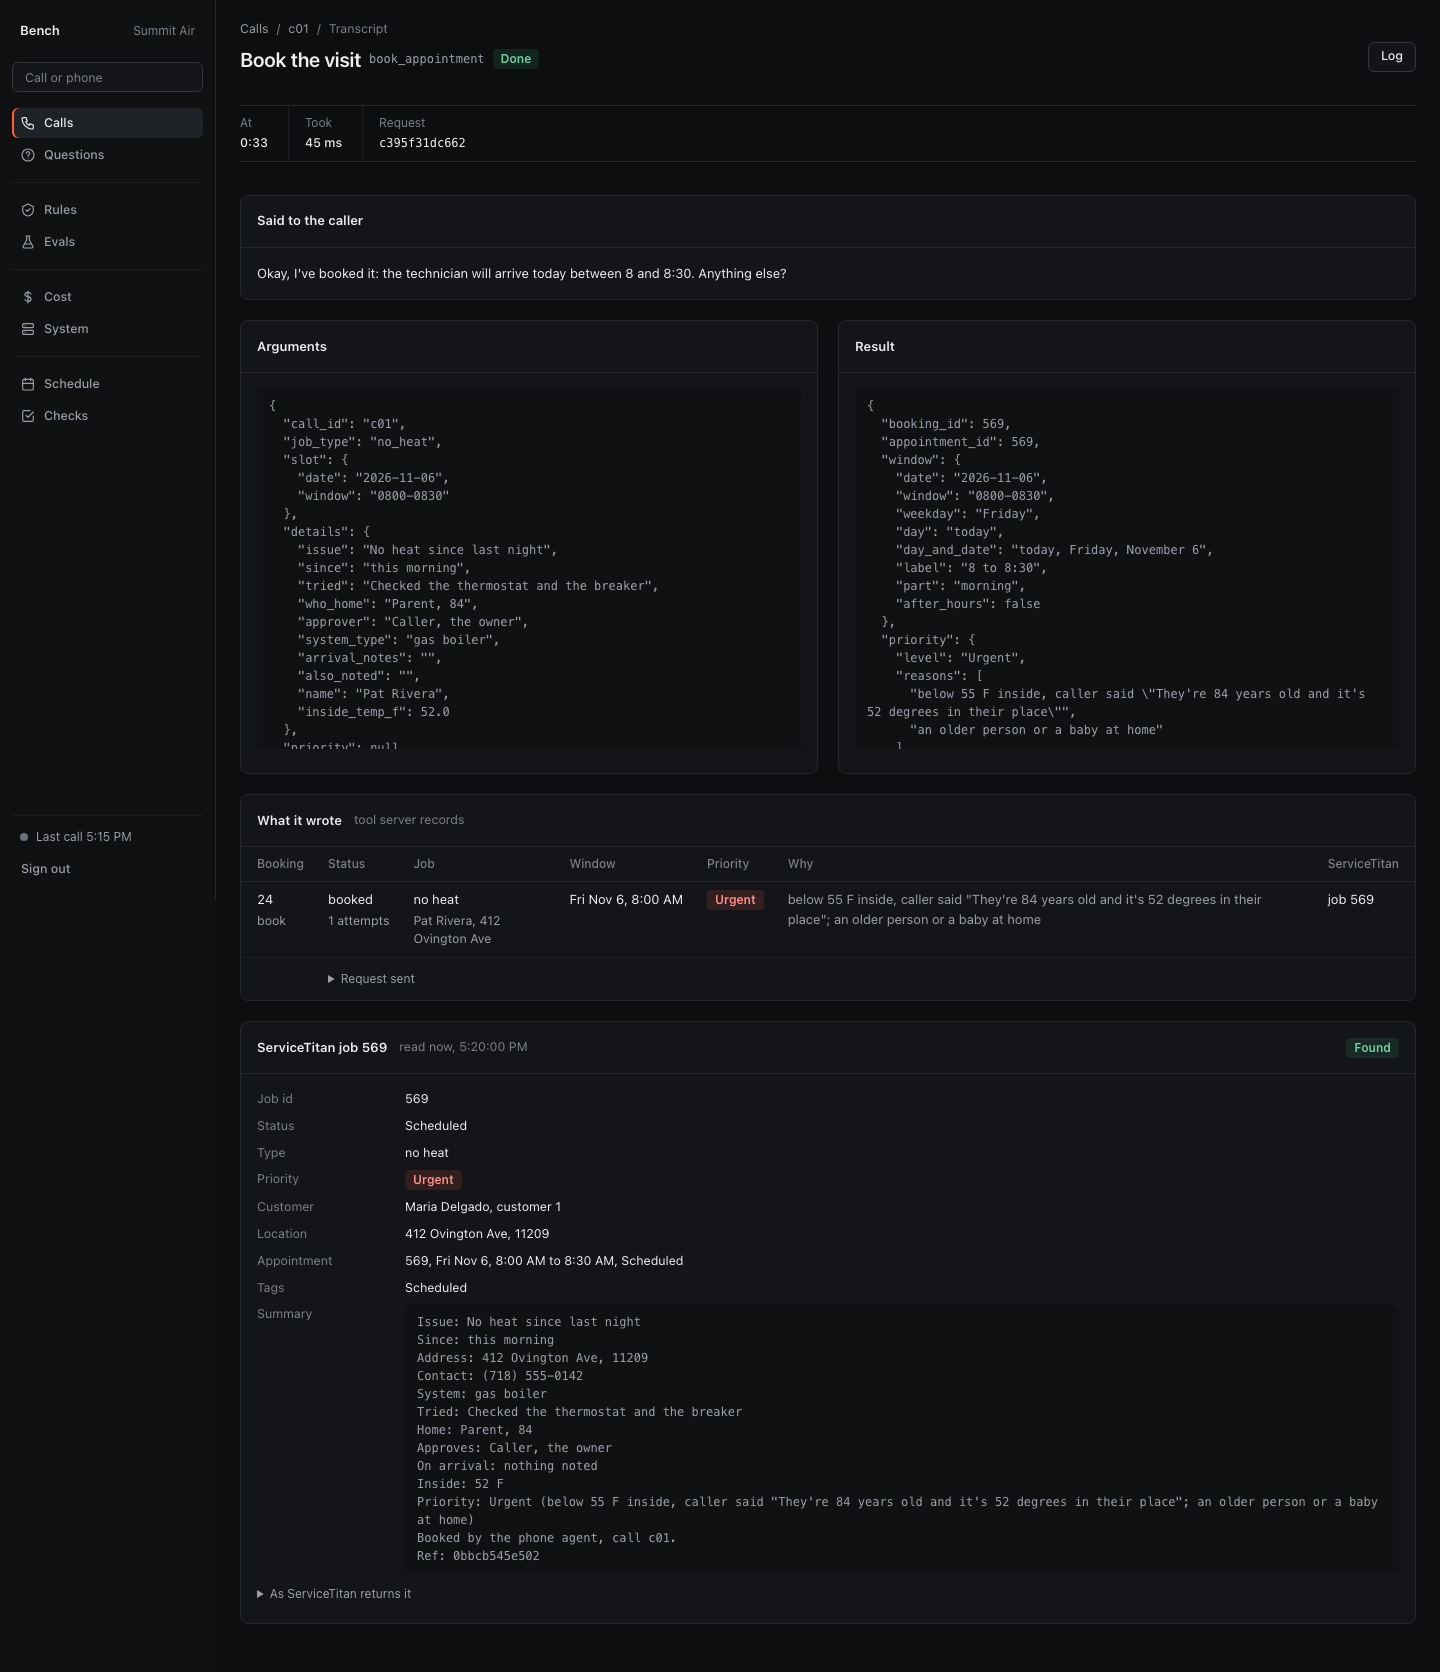
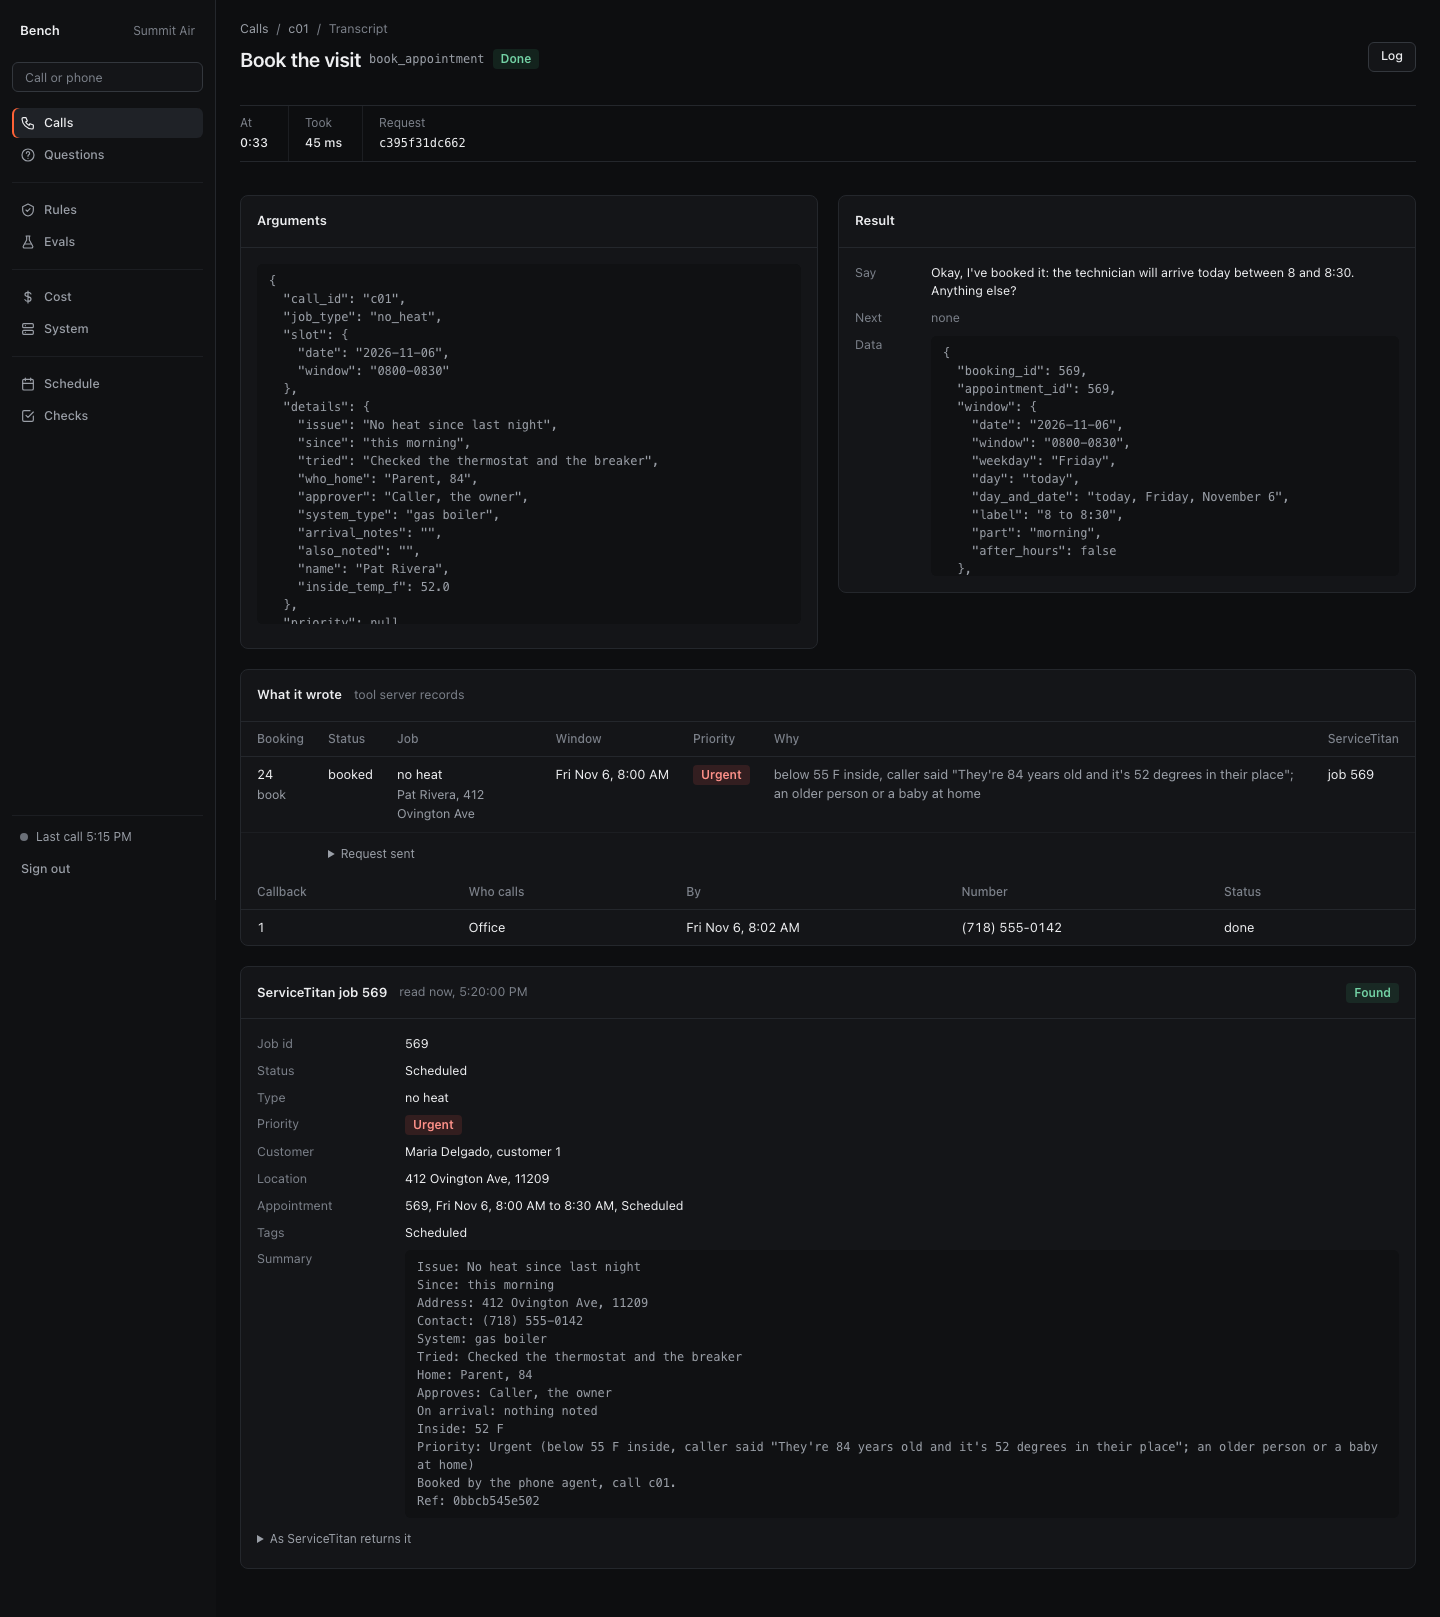
Bench: a tool call opens to say, next, data and its refusal; read-back bookings link to their rows (#191)
- Opening a tool call in the transcript reads its result (say, next, data, refusal, gate)
  on demand; the log now keeps the next step the server named.
- A booking tool's page also lists the callbacks made in the same request.
- Test: a booking made from the read-back links to its bookings and dispatch rows.

diff --git a/app/templates/_bench_heard.html b/app/templates/_bench_heard.html
@@ -30,8 +30,11 @@
         <td colspan="3"><details class="tool-call">
           <summary><span class="mono what">{{ x.tool }}</span>{% if x.error %}<span class="tag urgent">Error</span>{% elif not x.ok %}<span class="tag high">Refused</span>{% elif x.gate %}<span class="tag outline">{{ x.gate | replace("_", " ") }}</span>{% endif %}<span class="say">{{ mask(x.say) }}</span><span class="num faint">{{ "{:,.0f}".format(x.ms) }} ms</span></summary>
           <div class="tool-body">
-            <pre class="tech-block scroll">{{ x.args }}</pre>
-            <div class="actions">{% if x.refused %}<span class="small muted">Refused: {{ x.refused | replace("_", " ") }}</span>{% endif %}<a class="btn" href="/bench/calls/{{ key }}/tools/{{ x.id }}">{{ "Result and records" if x.writes else "Result" }}</a></div>
+            <div class="tool-cols">
+              <div><span class="label">Arguments</span><pre class="tech-block scroll">{{ x.args }}</pre></div>
+              <div data-result="/bench/calls/{{ key }}/tools/{{ x.id }}/result"><span class="label">Result</span><span class="skel" style="width: 70%"></span><span class="skel" style="width: 45%"></span></div>
+            </div>
+            <div class="actions"><a class="btn" href="/bench/calls/{{ key }}/tools/{{ x.id }}">{{ "Records it wrote" if x.writes else "Open" }}</a></div>
           </div>
         </details></td>
       </tr>

diff --git a/app/templates/bench_tool.html b/app/templates/bench_tool.html
@@ -25,21 +25,14 @@
     <div><dt>Request</dt><dd><code>{{ t.request_id }}</code></dd></div>
   </dl>
 
-  {% if t.say %}
-  <section class="panel">
-    <div class="panel-head"><h2>Said to the caller</h2></div>
-    <div class="panel-body">{{ mask(t.say) }}</div>
-  </section>
-  {% endif %}
-
   <div class="kv-grid">
     <section class="panel">
       <div class="panel-head"><h2>Arguments</h2></div>
       <div class="panel-body"><pre class="tech-block scroll">{{ args }}</pre></div>
     </section>
-    <section class="panel">
+    <section class="panel" id="result">
       <div class="panel-head"><h2>Result</h2></div>
-      <div class="panel-body">{% if result %}<pre class="tech-block scroll">{{ result }}</pre>{% else %}<span class="faint">Not in this server's log.</span>{% endif %}</div>
+      <div class="panel-body">{% include "_bench_result.html" %}</div>
     </section>
   </div>
 

diff --git a/app/static/bench/bench.js b/app/static/bench/bench.js
@@ -89,3 +89,16 @@ document.querySelectorAll("[data-chart]").forEach((chart) => {
   });
   show();
 });
+
+// Transcript: a tool call's result is read when the call is first opened, not with the page.
+document.addEventListener("toggle", (event) => {
+  const details = event.target;
+  if (!(details instanceof HTMLDetailsElement) || !details.open) return;
+  const slot = details.querySelector("[data-result]");
+  if (!slot || slot.dataset.loaded) return;
+  slot.dataset.loaded = "1";
+  fetch(slot.dataset.result, { credentials: "same-origin" })
+    .then((response) => (response.ok ? response.text() : Promise.reject(response.status)))
+    .then((html) => { slot.innerHTML = "<span class='label'>Result</span>" + html; })
+    .catch(() => { slot.innerHTML = "<span class='label'>Result</span><span class='faint'>Couldn't read it.</span>"; });
+}, true);

diff --git a/app/static/bench/bench.css b/app/static/bench/bench.css
@@ -282,6 +282,11 @@ button.chip { font: inherit; font-size: var(--text-sm); cursor: pointer; }
 .tool-body { display: flex; flex-direction: column; gap: var(--s-2); padding: var(--s-2) 0; }
 .tool-body .tech-block { max-height: 240px; margin: 0; }
 .tool-body .actions { justify-content: flex-end; }
+.tool-cols { display: grid; grid-template-columns: repeat(2, minmax(0, 1fr)); gap: var(--s-4); }
+.tool-cols .label { display: block; font-size: var(--text-xs); color: var(--faint); margin-bottom: var(--s-1); }
+.tool-cols .skel + .skel { margin-top: var(--s-2); }
+.result-kv { grid-template-columns: 64px minmax(0, 1fr); }
+.result-kv .tech-block { max-height: 240px; margin: 0; }
 details.raw summary { cursor: pointer; font-size: var(--text-xs); color: var(--muted); padding: var(--s-1) 0; }
 
 /* Log: one request per row, its JSON under it. */

diff --git a/app/templates/_bench_result.html b/app/templates/_bench_result.html
@@ -1,0 +1,9 @@
+{# What a tool call returned to the agent: shown in the transcript and on the tool call page. #}
+<dl class="kv result-kv">
+  {% if r.error %}<dt>Error</dt><dd class="error">{{ r.error }}</dd>{% endif %}
+  {% if r.refused %}<dt>Refused</dt><dd><span class="tag high">{{ r.refused | replace("_", " ") }}</span></dd>{% endif %}
+  {% if r.gate %}<dt>Gate</dt><dd>{{ r.gate | replace("_", " ") }}</dd>{% endif %}
+  <dt>Say</dt><dd>{% if r.say %}{{ mask(r.say) }}{% else %}<span class="faint">nothing</span>{% endif %}</dd>
+  <dt>Next</dt><dd>{% if r.next %}{{ mask(r.next) }}{% else %}<span class="faint">none</span>{% endif %}</dd>
+  <dt>Data</dt><dd>{% if r.data %}<pre class="tech-block scroll">{{ r.data }}</pre>{% else %}<span class="faint">Not in this server's log.</span>{% endif %}</dd>
+</dl>

diff --git a/app/bench.py b/app/bench.py
@@ -373,6 +373,49 @@ def add_routes(app: FastAPI) -> None:
             headers={"Content-Disposition": f'attachment; filename="log-{key}.json"'},
         )
 
+    def tool_call(conn, services, key: str, tool_id: int):
+        """The tool call row on this call, as an event, and its line of the JSON log (None when
+        the log no longer has it). None for a tool call on another call or a lifecycle request."""
+        call_id = call_for(conn, key)
+        row = conn.execute("SELECT * FROM tool_calls WHERE id = ? AND call_id = ?",
+                           (tool_id, call_id)).fetchone() if call_id else None
+        if row is None or row["tool"] in bench_call.LIFECYCLE:
+            return None
+        event = {**dict(row), "args": json.loads(row["args_json"]), "ok": bool(row["ok"])}
+        logged = next((r for r in logs.read(services.settings.log_path,
+                                            request_id=row["request_id"], limit=20)
+                       if r["tool"] == row["tool"]), None)
+        return call_id, event, logged
+
+    def returned(event: dict, logged: dict | None) -> dict:
+        """What the server returned to the agent: say, next, data, and the refusal or gate."""
+        return {
+            "say": event["say"] or "",
+            "next": (logged or {}).get("next", ""),
+            "refused": event["refused"] or "",
+            "gate": event["gate"] or "",
+            "error": event["error"] or "",
+            "data": json.dumps(logged["result"], indent=2, ensure_ascii=False) if logged else None,
+        }
+
+    @app.get("/bench/calls/{key}/tools/{tool_id}/result", response_class=HTMLResponse)
+    def bench_tool_result(request: Request, key: str, tool_id: int):
+        """A tool call's result alone, for the transcript to show when the call is opened."""
+        denied = require_admin(request)
+        if denied:
+            return denied
+        services = request.app.state.services
+        conn = services.connect()
+        try:
+            found = tool_call(conn, services, key, tool_id)
+            if found is None:
+                return HTMLResponse("No such tool call on this call.", 404)
+            _, event, logged = found
+            context = {**_context(request, conn, "bench"), "r": returned(event, logged)}
+        finally:
+            conn.close()
+        return _render(request, "_bench_result.html", context)
+
     @app.get("/bench/calls/{key}/tools/{tool_id}", response_class=HTMLResponse)
     def bench_tool_call(request: Request, key: str, tool_id: int):
         """One tool call: its arguments, the result the server returned (from the JSON log), and
@@ -383,17 +426,13 @@ def add_routes(app: FastAPI) -> None:
         services = request.app.state.services
         conn = services.connect()
         try:
-            call_id = call_for(conn, key)
-            row = conn.execute("SELECT * FROM tool_calls WHERE id = ? AND call_id = ?",
-                               (tool_id, call_id)).fetchone() if call_id else None
-            if row is None or row["tool"] in bench_call.LIFECYCLE:
+            found = tool_call(conn, services, key, tool_id)
+            if found is None:
                 return HTMLResponse("No such tool call on this call.", 404)
+            call_id, event, logged = found
+            row = event
             call = conn.execute("SELECT * FROM calls WHERE id = ?", (call_id,)).fetchone()
             tenant = services.tenants.by_slug.get(call["tenant"]) or services.tenants.default
-            event = {**dict(row), "args": json.loads(row["args_json"]), "ok": bool(row["ok"])}
-            logged = next((r for r in logs.read(services.settings.log_path,
-                                                request_id=row["request_id"], limit=20)
-                           if r["tool"] == row["tool"]), None)
             result = {"data": logged["result"]} if logged else None
             context = {
                 **_context(request, conn, "bench"),
@@ -403,8 +442,7 @@ def add_routes(app: FastAPI) -> None:
                 "label": bench_call.TOOL_WORDS.get(row["tool"], row["tool"]),
                 "clock": bench_call.clock(parse_iso(call["started_at"]), row["at"]),
                 "args": json.dumps(event["args"], indent=2, ensure_ascii=False),
-                "result": json.dumps(logged["result"], indent=2, ensure_ascii=False)
-                if logged else None,
+                "r": returned(event, logged),
                 "wrote": bench_call.tool_records(conn, call_id, event, result,
                                                  services.fsm.get(tenant.slug), tenant),
                 "local": lambda value: tenant.local(parse_iso(value)).strftime("%a %b %-d, %-I:%M %p")

diff --git a/tests/tool_server/test_ts_bench_round2.py b/tests/tool_server/test_ts_bench_round2.py
@@ -405,7 +405,7 @@ def test_a_booking_in_the_transcript_opens_to_its_bookings_row_and_the_serviceti
     page = agent.client.get(f"/bench/calls/{key}").text
     transcript = page.split('id="transcript"')[1].split('id="timing"')[0]
     assert 'class="tool-call"' in transcript and "book_appointment" in transcript
-    assert f'href="/bench/calls/{key}/tools/{tool_id}"' in transcript and "Result and records" in transcript
+    assert f'href="/bench/calls/{key}/tools/{tool_id}"' in transcript and "Records it wrote" in transcript
 
     conn = agent.db()
     try:
@@ -463,3 +463,64 @@ def test_a_tool_call_page_is_for_admins_and_only_for_its_own_call(agent):
     assert agent.client.get(f"/bench/calls/{_key(other)}/tools/{tool_id}").status_code == 404
     sign_in(agent, "staff")
     assert agent.client.get(f"/bench/calls/{_key(first)}/tools/{tool_id}").status_code == 403
+
+
+def test_a_booking_made_from_the_read_back_links_to_its_bookings_and_dispatch_rows(agent):
+    from test_ts_dispatch import _dispatch, _start_no_heat
+
+    sign_in(agent, "admin")
+    call_id = _start_no_heat(agent)
+    sent = _dispatch(agent, call_id)
+    assert sent["ok"] and sent["data"]["dispatched"], sent
+    agent.end(call_id)
+    key = _key(call_id)
+    tool_id = _tool_id(agent, call_id, "read_back")
+    conn = agent.db()
+    try:
+        booking = conn.execute("SELECT * FROM bookings WHERE call_id = ? AND kind = 'book'",
+                               (call_id,)).fetchone()
+        dispatch = conn.execute("SELECT id FROM dispatches WHERE call_id = ?", (call_id,)).fetchone()
+    finally:
+        conn.close()
+
+    transcript = agent.client.get(f"/bench/calls/{key}").text.split('id="transcript"')[1]
+    link = f'href="/bench/calls/{key}/tools/{tool_id}"'
+    assert link in transcript.split('id="timing"')[0] and "Records it wrote" in transcript
+
+    result = html.unescape(agent.client.get(f"/bench/calls/{key}/tools/{tool_id}/result").text)
+    assert "right away" in result, "say"
+    assert "Will someone be home" in result, "next"
+    assert f'"booking_id": {booking["fsm_job_id"]}' in result, "data"
+
+    page = html.unescape(agent.client.get(f"/bench/calls/{key}/tools/{tool_id}").text)
+    wrote = page.split('id="wrote"')[1]
+    assert f'<td class="fit num">{booking["id"]}' in wrote and '<td class="fit">booked' in wrote
+    assert "no heat" in wrote and f"job {booking['fsm_job_id']}" in wrote
+    assert f'<td class="fit num">{dispatch["id"]}</td>' in wrote, "the dispatch row"
+    assert "ServiceTitan job" in page and "Found" in page
+
+
+def test_a_refused_tool_call_shows_its_refusal_and_gate(agent):
+    from test_ts_bench_walkthrough import gas_call
+
+    sign_in(agent, "admin")
+    call_id = gas_call(agent)
+    conn = agent.db()
+    try:
+        tool_id = conn.execute("SELECT id FROM tool_calls WHERE call_id = ? AND ok = 0 AND "
+                               "tool = 'book_appointment'", (call_id,)).fetchone()[0]
+    finally:
+        conn.close()
+    result = agent.client.get(f"/bench/calls/{_key(call_id)}/tools/{tool_id}/result").text
+    assert "Refused" in result and "gate safety" in result
+    assert agent.client.get(f"/bench/calls/{_key(call_id)}/tools/999999/result").status_code == 404
+
+
+def test_the_log_keeps_the_next_step_the_server_named():
+    from app import logs
+
+    body = {"ok": True, "say": "Okay.", "next": "Ask who will be home.", "data": {}, "refused": None}
+    line = logs.record(now=__import__("datetime").datetime(2026, 11, 2), request_id="r", call_id="c",
+                       tool="read_back", args={}, body=body, gate=None, ms=1.0, fsm=[], error=None,
+                       replayed=False)
+    assert line["next"] == "Ask who will be home."

diff --git a/app/bench_call.py b/app/bench_call.py
@@ -745,8 +745,15 @@ def tool_records(conn: sqlite3.Connection, call_id: str, event: dict, result: di
         return rows(f"SELECT * FROM {table} WHERE call_id = ? AND created_at = ?", (call_id, at))
 
     flags = by_id("flags", "flag_id") if event["tool"] in ("flag_person", "request_transfer") else []
-    callbacks = by_id("callbacks", "callback_id") if event["tool"] in (
-        "flag_person", "request_transfer", "record_lead") else []
+    if event["tool"] in ("flag_person", "request_transfer", "record_lead"):
+        callbacks = by_id("callbacks", "callback_id")
+    elif bookings:
+        # A booking's own callback (an approval check, an urgent visit's follow-up) is made in
+        # the same request and returns no id of its own.
+        callbacks = rows("SELECT * FROM callbacks WHERE call_id = ? AND created_at = ?",
+                         (call_id, at))
+    else:
+        callbacks = []
     leads = by_id("leads", "lead_id") if event["tool"] == "record_lead" else []
     for lead in leads:
         lead["request"] = json.loads(lead.pop("request_json") or "{}")

diff --git a/scripts/build_postman_tools.py b/scripts/build_postman_tools.py
@@ -934,6 +934,9 @@ def build() -> dict:
                 ("Staff can't download a call's log", "bench/calls/{{call_id}}/log.json", None),
                 ("Staff can't open a tool call's records", "bench/calls/{{call_id}}/tools/{{tool_id}}",
                  "pm.collectionVariables.set('tool_id', '1');"),
+                ("Staff can't read a tool call's result",
+                 "bench/calls/{{call_id}}/tools/{{tool_id}}/result",
+                 "pm.collectionVariables.set('tool_id', '1');"),
                 ("Staff can't open the bench's schedule", "bench/schedule", None),
                 ("Staff can't read what changed", "bench/schedule/changes", None),
                 ("Staff can't open an eval run", "bench/evals/{{eval_run}}", eval_run),

diff --git a/app/logs.py b/app/logs.py
@@ -64,6 +64,8 @@ def record(
         "refused": body["refused"],
         "gate": gate,
         "say": body["say"],
+        # The step the server told the agent to take next, when it named one (app/envelope.py).
+        "next": body.get("next", ""),
         "result": body["data"],
         "replayed": replayed,
         "ms": ms,
